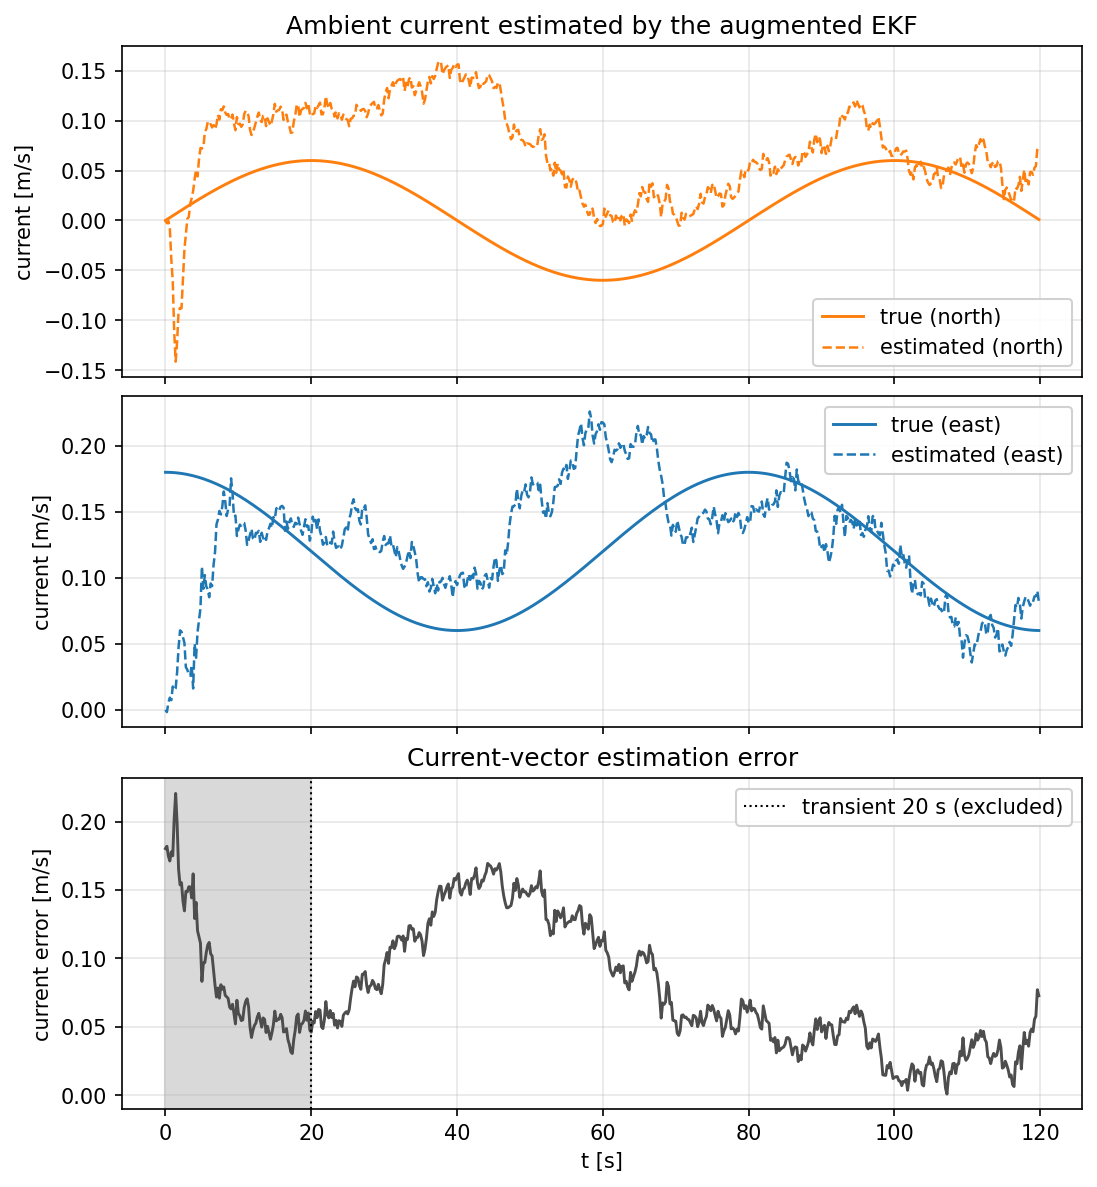
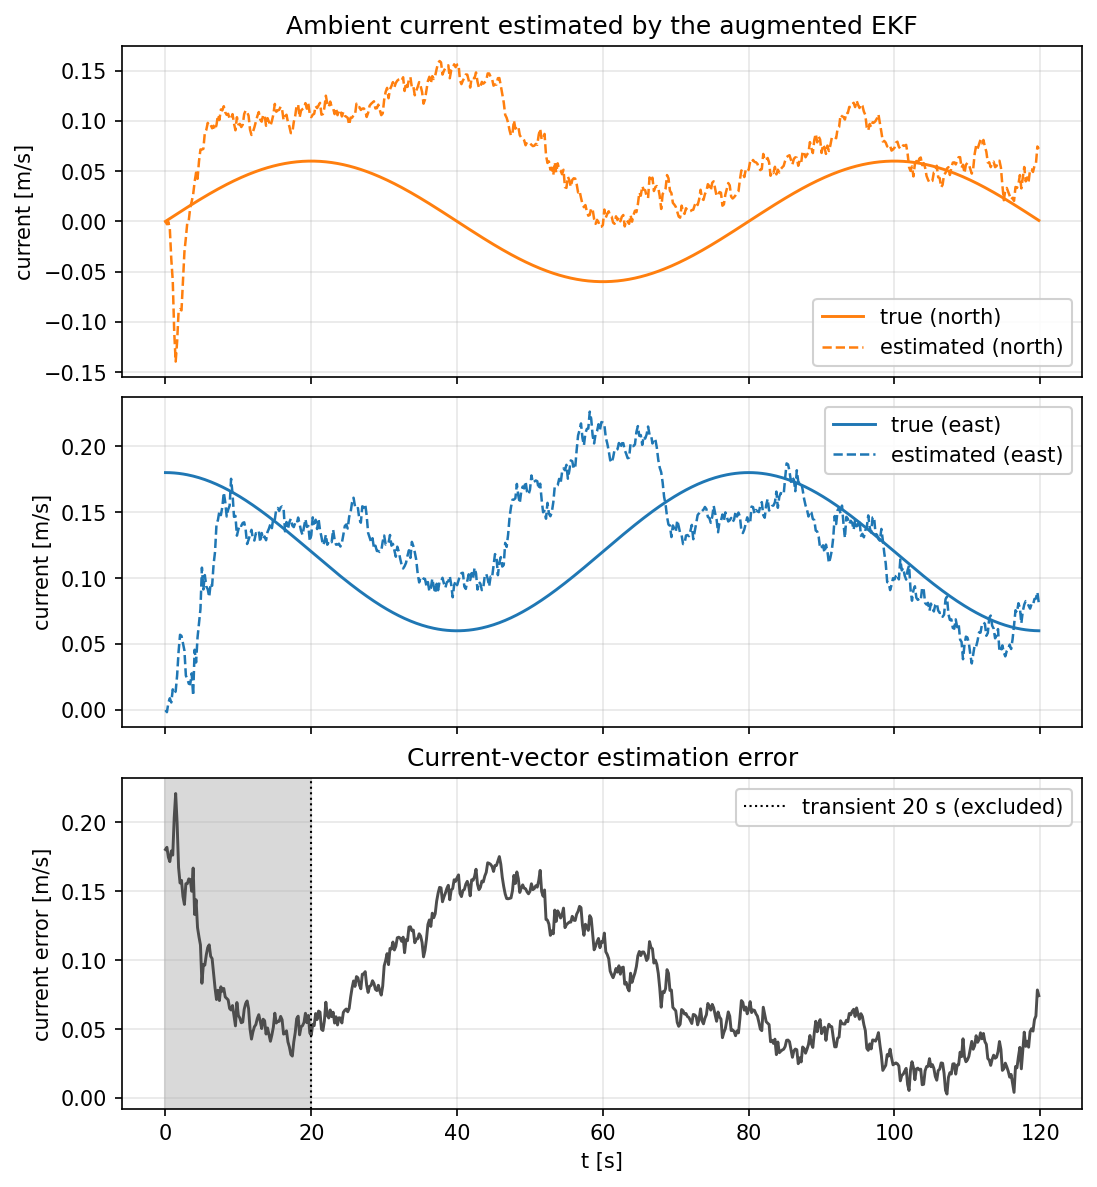
fix: account for body-frame current transport

diff --git a/tests/test_integrator.cpp b/tests/test_integrator.cpp
@@ -6,6 +6,8 @@
 #include <array>
 #include <cmath>
 
+#include <Eigen/Core>
+
 #include "vessel_gnc/dynamics.hpp"
 #include "vessel_gnc/integrator.hpp"
 
@@ -162,6 +164,39 @@ TEST(RK4, CurrentEquilibrium) {
     }
     EXPECT_NEAR(s.u, 0.0, 1e-9);
     EXPECT_NEAR(s.v, 0.5, 1e-9);
+}
+
+TEST(RK4, TurningBodyPreservesConstantInertialCurrentDrift) {
+    // A co-moving vessel with a constant yaw rate has zero relative
+    // translational velocity. Its body components rotate, while its inertial
+    // velocity and straight drift remain constant.
+    ModelParams p = default_params();
+    p.lin_damping_r = 0.0;
+    p.quad_damping_r = 0.0;
+    Environment env;
+    env.current_north = 0.4;
+    env.current_east = -0.2;
+    State s;
+    s.u = env.current_north;
+    s.v = env.current_east;
+    s.r = 0.2;
+
+    constexpr double dt = 0.01;
+    constexpr int n_steps = 500;
+    for (int k = 0; k < n_steps; ++k) {
+        s = rk4_step(s, Control{}, env, p, dt);
+    }
+
+    const double duration = n_steps * dt;
+    const Eigen::Vector2d expected_body =
+        rotation_matrix(s.psi).transpose()
+        * Eigen::Vector2d(env.current_north, env.current_east);
+    EXPECT_NEAR(s.x, env.current_north * duration, 1e-9);
+    EXPECT_NEAR(s.y, env.current_east * duration, 1e-9);
+    EXPECT_NEAR(s.psi, 0.2 * duration, 1e-12);
+    EXPECT_NEAR(s.u, expected_body.x(), 1e-9);
+    EXPECT_NEAR(s.v, expected_body.y(), 1e-9);
+    EXPECT_NEAR(s.r, 0.2, 1e-12);
 }
 
 TEST(RK4, StaysFiniteOverLongRun) {

diff --git a/src/dynamics.cpp b/src/dynamics.cpp
@@ -30,6 +30,12 @@ State derivative(const State& state,
     const double v_rel = state.v - current_body.y();
     const double r_rel = state.r;
 
+    // Transport of an inertially constant current into the rotating body
+    // frame: v_c_dot^b = -S(r) v_c^b. The environment scenario varies slowly,
+    // so its inertial acceleration R^T v_c_dot^n is neglected (docs/model.md §3).
+    const double current_transport_u = state.r * current_body.y();
+    const double current_transport_v = -state.r * current_body.x();
+
     // Diagonal mass matrix M = diag(m11, m22, m33).
     const double m11 = params.mass + params.added_mass_x;
     const double m22 = params.mass + params.added_mass_y;
@@ -62,9 +68,10 @@ State derivative(const State& state,
     d.y = R(1, 0) * state.u + R(1, 1) * state.v;  // y_dot = u sin(psi) + v cos(psi)
     d.psi = state.r;
 
-    // M nu_dot = tau + tau_env - C(nu_rel) nu_rel - D(nu_rel) nu_rel
-    d.u = (tau_x + wind_body.x() - cx - du) / m11;
-    d.v = (wind_body.y() - cy - dv) / m22;
+    // nu_dot = nu_c_dot^b
+    //        + M^-1 [tau + tau_env - C(nu_rel) nu_rel - D(nu_rel) nu_rel]
+    d.u = current_transport_u + (tau_x + wind_body.x() - cx - du) / m11;
+    d.v = current_transport_v + (wind_body.y() - cy - dv) / m22;
     d.r = (tau_r - cr - dr) / m33;
     return d;
 }

diff --git a/tests/test_dynamics.cpp b/tests/test_dynamics.cpp
@@ -172,6 +172,33 @@ TEST(Environment, CurrentDragsVesselAlong) {
     EXPECT_NEAR(d_drift.v, 0.0, kTol);
 }
 
+TEST(Environment, TurningBodyTransportsConstantInertialCurrent) {
+    // With zero relative translational velocity, hydrodynamic loads vanish.
+    // The absolute body velocity must still rotate as the body turns:
+    // v_c_dot^b = -S(r) v_c^b = [r v_c, -r u_c].
+    ModelParams p = default_params();
+    p.lin_damping_r = 0.0;
+    p.quad_damping_r = 0.0;
+
+    Environment env;
+    env.current_north = 0.4;
+    env.current_east = -0.2;
+
+    State s;
+    s.psi = 0.7;
+    s.r = 0.3;
+    const Eigen::Vector2d current_body =
+        rotation_matrix(s.psi).transpose()
+        * Eigen::Vector2d(env.current_north, env.current_east);
+    s.u = current_body.x();
+    s.v = current_body.y();
+
+    const State d = derivative(s, Control{}, env, p);
+    EXPECT_NEAR(d.u, s.r * current_body.y(), 1e-12);
+    EXPECT_NEAR(d.v, -s.r * current_body.x(), 1e-12);
+    EXPECT_NEAR(d.r, 0.0, 1e-12);
+}
+
 TEST(Environment, WindForceActsInInertialDirection) {
     // Wind is an inertial-frame force: the same eastward wind pushes sway at
     // psi = 0 and surge at psi = pi/2.

diff --git a/include/vessel_gnc/dynamics.hpp b/include/vessel_gnc/dynamics.hpp
@@ -13,8 +13,11 @@ Eigen::Matrix2d rotation_matrix(double psi);
 // Time derivative of the full vessel state for the 3-DOF model
 // (docs/model.md §2–§4):
 //     eta_dot = R(psi) nu
-//     M nu_dot = tau + tau_env - C(nu_rel) nu_rel - D(nu_rel) nu_rel
-// Assumes finite inputs; no NaN/Inf checking inside the kernel.
+//     nu_dot = nu_c_dot^b
+//            + M^-1 [tau + tau_env - C(nu_rel) nu_rel - D(nu_rel) nu_rel]
+// where nu_c_dot^b includes body-frame transport of a locally constant
+// inertial current (docs/model.md §3). Assumes finite inputs; no NaN/Inf
+// checking inside the kernel.
 State derivative(const State& state,
                  const Control& control,
                  const Environment& environment,

diff --git a/docs/model.md b/docs/model.md
@@ -43,9 +43,30 @@ psi_dot = r
 
 ## 3. Dynamics
 
+The implementation uses Fossen's simplified relative equations for an
+irrotational current:
+
 ```text
-M nu_dot + C(nu_rel) nu_rel + D(nu_rel) nu_rel = tau + tau_env
+M nu_rel_dot + C(nu_rel) nu_rel + D(nu_rel) nu_rel = tau + tau_env
+nu_rel = nu - nu_c^b
+nu_c^b = [R(psi)^T V_c^n, 0]^T
 ```
+
+The stored state velocity `nu` is absolute (body components of velocity over
+ground), because the kinematics use `eta_dot = R(psi) nu`. For a current that is
+constant in the inertial frame, its body components rotate with the vessel:
+
+```text
+v_c_dot^b = -S(r) v_c^b = [r v_c, -r u_c]^T
+nu_dot = nu_c_dot^b
+        + M^-1 [tau + tau_env - C(nu_rel) nu_rel - D(nu_rel) nu_rel]
+```
+
+This transport term is required even when the relative translational velocity
+is zero: a turning body sees the same inertial current through changing body
+components. The scenario's inertial current varies slowly; the smaller
+`R(psi)^T V_c_dot^n` acceleration is intentionally neglected, so the current
+model is quasi-steady rather than a model of accelerating water.
 
 **Mass matrix** (rigid body + diagonal added mass):
 
@@ -62,13 +83,15 @@ Motion Control*, 2011, eq. 3.26 ff.):
 C(nu_rel) nu_rel = [-m22 v_rel r ,  m11 u_rel r ,  (m22 - m11) u_rel v_rel]^T
 ```
 
-The yaw component `(m22 - m11) u_rel v_rel` is the (destabilizing) Munk
-coupling: for a slender hull (`m22 > m11`), a starboard sideslip at forward
-speed produces a clockwise yaw moment. It is kept in the model because it is
-physically important for turning behaviour; the default parameters are chosen
-so that the hull remains directionally stable at cruise. In a steady turn the
-vessel develops a *port* sideslip (`v < 0`, bow into the turn), so the Munk
-moment opposes the turn and reduces the effective yaw damping.
+The yaw component `(m22 - m11) u_rel v_rel` produces the destabilizing Munk
+coupling when moved to the right-hand side. For a slender hull (`m22 > m11`),
+a starboard relative sway (`v_rel > 0`) at forward speed therefore produces a
+counter-clockwise hydrodynamic yaw moment. It is kept because it is physically
+important for turning behaviour; the default parameters are chosen so that
+yaw damping still gives directional stability at cruise. In a clockwise steady
+turn the vessel develops a *port* relative sideslip (`v_rel < 0`, bow into the
+turn), so the Munk moment assists the turn and reduces the effective yaw
+damping.
 
 **Damping** (linear + quadratic, diagonal):
 
@@ -94,10 +117,11 @@ Gaussian wind gusts on top of the mean force — exactly reproducible, no RNG
 
 - **Current** — ambient flow with inertial components `(V_cN, V_cE)`, assumed
   uniform and irrotational. Damping and Coriolis terms act on the *relative*
-  velocity `nu_rel = nu - R(psi)^T [V_cN, V_cE]^T`, which is the standard
-  manoeuvring formulation. Physical consequences: a vessel at rest in a current
-  is dragged along with it; a vessel moving exactly with the current feels no
-  hydrodynamic force. (Both are validated in `tests/`.)
+  velocity `nu_rel = nu - R(psi)^T [V_cN, V_cE]^T`; the absolute acceleration
+  also includes the body-frame transport term above. Physical consequences: a
+  vessel at rest in a current is dragged along with it; a vessel moving exactly
+  with a constant inertial current feels no hydrodynamic load, including while
+  its body frame turns. (These cases are validated in `tests/`.)
 - **Wind** — constant force in the inertial frame, applied at the hull centre.
   Wind-induced yaw moment is neglected in the current model.
 
@@ -167,6 +191,7 @@ order 10–20 m).
 | 3-DOF horizontal plane | Scope of v1 (plan §3) | Quasi-horizontal motions, calm water, low Froude number | No heave/roll/pitch, no wave forces |
 | Diagonal added mass | Standard for symmetric hulls | Manoeuvring studies | No cross-coupling (`Y_rdot`, `N_vdot`) |
 | Diagonal linear + quadratic damping | Standard surge/sway/yaw representation | Moderate speeds and drift angles | No damping cross-terms |
+| Slowly varying current treated quasi-steadily | `Environment` supplies velocity, not acceleration | Current timescale long relative to vessel dynamics | Neglects the inertial term `R^T V_c_dot^n`; body-frame rotational transport is retained |
 | Constant inertial wind force, no wind moment | Current simplification | Weak-to-moderate wind | No apparent-wind model, no wind moment |
 | First-order actuator with rate limits | Credible lag/saturation/rate behaviour | Low-frequency control studies | No propeller/rudder detail; illustrative time constants |
 | Zero-order hold control per RK4 step | Standard sampled control | `dt` small relative to dynamics | Inter-sample behaviour not modelled |
@@ -185,7 +210,7 @@ All cases below are automated in `tests/test_dynamics.cpp`,
 | Damping sign | Forward speed decays without actuation | Pass |
 | Surge equilibrium (plan case B) | Derivative at drag balance; 60 s run reaches `u_eq` | Pass |
 | Steady yaw (plan case C) | Yaw acceleration vanishes at drag balance; 60 s run settles into a steady turn with port sideslip (`v < 0`) | Pass |
-| Current model | Resting vessel dragged along; co-moving vessel feels no force | Pass |
+| Current model | Resting vessel dragged along; co-moving vessel feels no hydrodynamic load; turning body preserves constant inertial drift through the body-frame transport term | Pass |
 | Wind model | Inertial force acts through the rotation matrix | Pass |
 | RK4 convergence (plan case D) | Error vs analytical surge solution at dt, dt/2, dt/4 | Ratio ≈ 16 (O(dt⁴)) |
 | Determinism | Repeated runs bit-identical | Pass |

diff --git a/README.md b/README.md
@@ -23,9 +23,9 @@ re-solved at 5 Hz.*
 <!-- generated:reference-benchmark-v1:start -->
 | Metric | Result |
 |---|---:|
-| C++ RK4 propagation (vessel + actuator) | **482.9 ns/step** |
+| C++ RK4 propagation (vessel + actuator) | **472.1 ns/step** |
 | 1000 s simulation (Python loop) | **342 ms** |
-| NMPC mean / p95 / max solve time [ms] | **96.0 / 118.3 / 210.8** |
+| NMPC mean / p95 / max solve time [ms] | **91.0 / 118.0 / 208.7** |
 
 Machine-dependent wall-clock measurements recorded in `results/reference/benchmark.json` (`benchmark_v1`, 300 samples, 0 failed solves). The 5 Hz NMPC control period corresponds to a 200 ms budget; these solve times make no real-time capability claim. Regenerate with `python tools/generate_reference_results.py`.
 
@@ -56,17 +56,17 @@ estimates the ambient current online.
 | Metric | LOS (PID/PI) | NMPC |
 |---|---:|---:|
 | RMS cross-track error [m] | 0.68 | 0.44 |
-| P95 cross-track error [m] | 0.97 | 0.69 |
+| P95 cross-track error [m] | 0.98 | 0.69 |
 | Max cross-track error [m] | 1.37 | 0.80 |
 | RMS wrapped heading error [deg] | 6.3 | 10.2 |
-| Max wrapped heading error [deg] | 17.7 | 27.2 |
-| RMS applied thrust [N] | 31.8 | 32.6 |
-| Max applied thrust [N] | 38.0 | 58.9 |
+| Max wrapped heading error [deg] | 17.6 | 27.2 |
+| RMS applied thrust [N] | 31.8 | 32.7 |
+| Max applied thrust [N] | 38.1 | 58.9 |
 | RMS applied yaw moment [N m] | 1.3 | 2.1 |
 | Max applied yaw moment [N m] | 3.3 | 6.0 |
 | Thrust saturation duration [s] | 0.0 | 0.0 |
-| Yaw-moment saturation duration [s] | 0.0 | 1.9 |
-| Either channel saturated [s] | 0.0 | 1.9 |
+| Yaw-moment saturation duration [s] | 0.0 | 1.8 |
+| Either channel saturated [s] | 0.0 | 1.8 |
 
 Deterministic flagship metrics formatted from `results/reference/metrics.json` (scenario `scenario_v1_mismatch_disturbance`, revision 1, seed 42, 120.0 s at 0.01 s integration). Saturation counts left-closed intervals whose applied value lies within 1% of a `ModelParams` bound span (docs/validation.md). No wall-clock timing appears here: NMPC solve times are machine-dependent and reported separately in the benchmark table.
 
@@ -150,9 +150,9 @@ change is not reflected in the committed artifacts.
 | Schema | `results/reference/reference.schema.json` (version 1) |
 | Deterministic metrics | `results/reference/metrics.json` |
 | Machine-dependent benchmark | `results/reference/benchmark.json` |
-| Generated at (UTC) | 2026-08-14T01:01:57+00:00 |
-| Source commit | `0f44547ad79aee773ed9df4ffda2994dafbfc650` |
[1 lines of base64/hex data omitted]
+| Generated at (UTC) | 2026-08-15T08:44:43+00:00 |
+| Source commit | `3add1f1086df420bc0e384dea9c9aba5b115a236` |
[1 lines of base64/hex data omitted]
 
 `git_commit` and the `dirty` flag record the repository state at generation time; the source fingerprint is content-based and authoritative. After committing source changes, either regenerate the artifacts (`python tools/generate_reference_results.py`) or keep the source contents unchanged: `--check` compares only the content fingerprint, so a clean checkout at a new commit passes when the source contents are unchanged and fails when they changed. `--check` validates schema, scenario, source fingerprint, artifact hashes and marker bodies without any simulation; `--verify-determinism` runs one fresh 120 s reference and compares it with `results/reference/metrics.json`: the LOS baseline metrics exactly, and the NMPC/estimator metrics within `rtol=1e-6, atol=1e-6` (IPOPT solves to `tol=1e-4`, so its full-precision iterates may differ in the last ulps), reporting the worst offending key and deviation on failure. Reproducibility is guaranteed within the software environment recorded in `metadata.json` (`software` block): regenerating in another environment requires a fresh `--verify-determinism` in that environment before the committed metrics can be trusted.
 

diff --git a/docs/validation.md b/docs/validation.md
@@ -22,7 +22,7 @@ Status legend:
 | Damping sign, surge equilibrium (plan case B) | validated | `tests/test_dynamics.cpp`, `tests/test_integrator.cpp` |
 | Coriolis conserves kinetic energy; steady turn with port sideslip (plan case C) | validated | `tests/test_dynamics.cpp`, `tests/test_integrator.cpp` |
 | RK4 convergence O(dt⁴) vs analytical solution (plan case D) | verified | `tests/test_integrator.cpp` |
-| Relative-velocity current model (drag along, co-moving equilibrium) | validated | `tests/test_dynamics.cpp` |
+| Relative-current model (drag along, co-moving equilibrium, rotating-body transport) | validated | `tests/test_dynamics.cpp`, `tests/test_integrator.cpp` |
 | Wind force through the rotation matrix | verified | `tests/test_dynamics.cpp` |
 | Actuator saturation | verified | `tests/test_dynamics.cpp` |
 | Determinism, finiteness over long runs | verified | `tests/test_integrator.cpp` |
@@ -68,9 +68,9 @@ metrics.
 <!-- generated:reference-benchmark-v1:start -->
 | Metric | Result |
 |---|---:|
-| C++ RK4 propagation (vessel + actuator) | **482.9 ns/step** |
+| C++ RK4 propagation (vessel + actuator) | **472.1 ns/step** |
 | 1000 s simulation (Python loop) | **342 ms** |
-| NMPC mean / p95 / max solve time [ms] | **96.0 / 118.3 / 210.8** |
+| NMPC mean / p95 / max solve time [ms] | **91.0 / 118.0 / 208.7** |
 
 Machine-dependent wall-clock measurements recorded in `results/reference/benchmark.json` (`benchmark_v1`, 300 samples, 0 failed solves). The 5 Hz NMPC control period corresponds to a 200 ms budget; these solve times make no real-time capability claim. Regenerate with `python tools/generate_reference_results.py`.
 
@@ -93,9 +93,9 @@ Scenario, seed, configuration, source revision and fingerprint:
 | Schema | `results/reference/reference.schema.json` (version 1) |
 | Deterministic metrics | `results/reference/metrics.json` |
 | Machine-dependent benchmark | `results/reference/benchmark.json` |
-| Generated at (UTC) | 2026-08-14T01:01:57+00:00 |
-| Source commit | `0f44547ad79aee773ed9df4ffda2994dafbfc650` |
[1 lines of base64/hex data omitted]
+| Generated at (UTC) | 2026-08-15T08:44:43+00:00 |
+| Source commit | `3add1f1086df420bc0e384dea9c9aba5b115a236` |
[1 lines of base64/hex data omitted]
 
 `git_commit` and the `dirty` flag record the repository state at generation time; the source fingerprint is content-based and authoritative. After committing source changes, either regenerate the artifacts (`python tools/generate_reference_results.py`) or keep the source contents unchanged: `--check` compares only the content fingerprint, so a clean checkout at a new commit passes when the source contents are unchanged and fails when they changed. `--check` validates schema, scenario, source fingerprint, artifact hashes and marker bodies without any simulation; `--verify-determinism` runs one fresh 120 s reference and compares it with `results/reference/metrics.json`: the LOS baseline metrics exactly, and the NMPC/estimator metrics within `rtol=1e-6, atol=1e-6` (IPOPT solves to `tol=1e-4`, so its full-precision iterates may differ in the last ulps), reporting the worst offending key and deviation on failure. Reproducibility is guaranteed within the software environment recorded in `metadata.json` (`software` block): regenerating in another environment requires a fresh `--verify-determinism` in that environment before the committed metrics can be trusted.
 

diff --git a/docs/control.md b/docs/control.md
@@ -203,17 +203,17 @@ solve times are machine-dependent and reported only in the benchmark table.
 | Metric | LOS (PID/PI) | NMPC |
 |---|---:|---:|
 | RMS cross-track error [m] | 0.68 | 0.44 |
-| P95 cross-track error [m] | 0.97 | 0.69 |
+| P95 cross-track error [m] | 0.98 | 0.69 |
 | Max cross-track error [m] | 1.37 | 0.80 |
 | RMS wrapped heading error [deg] | 6.3 | 10.2 |
-| Max wrapped heading error [deg] | 17.7 | 27.2 |
-| RMS applied thrust [N] | 31.8 | 32.6 |
-| Max applied thrust [N] | 38.0 | 58.9 |
+| Max wrapped heading error [deg] | 17.6 | 27.2 |
+| RMS applied thrust [N] | 31.8 | 32.7 |
+| Max applied thrust [N] | 38.1 | 58.9 |
 | RMS applied yaw moment [N m] | 1.3 | 2.1 |
 | Max applied yaw moment [N m] | 3.3 | 6.0 |
 | Thrust saturation duration [s] | 0.0 | 0.0 |
-| Yaw-moment saturation duration [s] | 0.0 | 1.9 |
-| Either channel saturated [s] | 0.0 | 1.9 |
+| Yaw-moment saturation duration [s] | 0.0 | 1.8 |
+| Either channel saturated [s] | 0.0 | 1.8 |
 
 Deterministic flagship metrics formatted from `results/reference/metrics.json` (scenario `scenario_v1_mismatch_disturbance`, revision 1, seed 42, 120.0 s at 0.01 s integration). Saturation counts left-closed intervals whose applied value lies within 1% of a `ModelParams` bound span (docs/validation.md). No wall-clock timing appears here: NMPC solve times are machine-dependent and reported separately in the benchmark table.
 

diff --git a/docs/estimation.md b/docs/estimation.md
@@ -108,11 +108,11 @@ explicit 20.0 s transient.
 <!-- generated:reference-estimator-v1:start -->
 | Metric | Value |
 |---|---:|
-| Position error RMS [m] | 0.17 |
+| Position error RMS [m] | 0.16 |
 | Position error max [m] | 0.43 |
 | Yaw-rate error RMS [rad/s] | 0.008 |
-| Current error RMS [m/s] (after 20.0 s transient) | 0.089 |
-| Current error max [m/s] (after 20.0 s transient) | 0.169 |
+| Current error RMS [m/s] (after 20.0 s transient) | 0.090 |
+| Current error max [m/s] (after 20.0 s transient) | 0.175 |
 
 Estimator errors of the NMPC reference run, computed from the callback-aligned true/estimated records and formatted from `results/reference/metrics.json` (scenario `scenario_v1_mismatch_disturbance`, seed 42). The current estimate absorbs all unmodelled environmental forces, so wind gusts and model mismatch can contaminate it: the current error is an equivalent-disturbance indicator (docs/estimation.md §5), not a standalone current-sensor validation.
 
